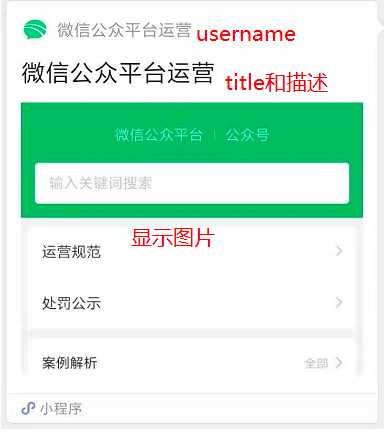
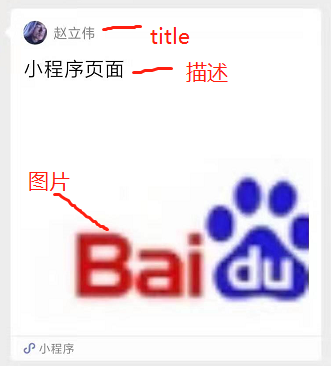
修正错误，基本补全

diff --git a/index.html b/index.html
@@ -22,7 +22,7 @@
         loadSidebar: true,
         subMaxLevel: 3,
         logo: './wxrc.png',
-        coverpage: true,
+        coverpage: false,
         executeScript: true,
         formatUpdated: '{YYYY}-{MM}-{DD} {HH}:{mm}',
         search: {

diff --git a/designer.md b/designer.md
@@ -1,0 +1,57 @@
+# 设计指引
+
+!>WXRC提供能力，设计捕捉场景。Last update：{docsify-updated} 
+
+技术提供能力，设计捕捉场景，运营服务客户，各自面向的生命周期对象不同。
+
+为了服务的连续性，好的产品应该拒绝毫无准则的运营，好的技术拒绝没有价值观的产品，WXRC封装了一种能力，但并不希望其被滥用，虽然并不能从根本上拦住。
+
+## 严禁
+
+由于微信官方的封杀态度，严禁将此能力用于营销场景，包括但不限于，疯狂加好友、广告轰炸、欺诈性营销，以及各种非法行为。我们暂时将机器人能力压缩在一个被动空间里，如需要更多能力，请联系zhao@mandaren.com，描述你的场景
+
+## 方向
+
+理念决定格局，格局决定成长，紧握拳头，什么也抓不住，摊开手掌，可能拥抱更大的世界。
+
+一种特殊的能力，就好像刀枪、知识、信息...，可以用来创造很多美好的事务，也可以用来作恶。Google的“Don’t be evil”，张小龙的“微信价值观”，时至今日，依然是我们应该朝拜的方向。
+
+## 时代与变化
+
+“红利枯竭”是一种状态说法，立足的是过去十余年运营主导的商业逻辑经验。当行业红利、企业自增长一般情况下足以覆盖粗暴运营的相对成本折损，船并不会沉，相反善于大手笔花钱套利的人往往能因为面上的绝对数业绩而掌握话筒。但我们看到，从18年开始，这种商业逻辑正在普遍性崩塌，无数的千万级企业、亿级企业、十亿级、百亿级、乃至千亿级的企业面临生存危机，因为红利、自增长这些大环境buffer一般性的不存在了，而他们的运营逻辑却并没有跟上趋势。
+
+时代变了，很多问题浮上了水面，当年“贸工技”还是“技工贸”路线之争的联想，今天成了业界的笑柄。而坚持做强而不是做大的华为一夜之间成为“抗击美帝”的英雄。
+
+产品经理要多关注趋势和能力，也就是那些能影响环境buffer的因素，这是造物主的视角，他会让你的能力具备可移植性，能够轻易穿透各行各业。
+
+我猜测并一直等待微信的两大开放可能：\
+①企业微信开放被动的机器人能力。\
+②App可以直接调起小程序
+
+你也不妨留意，因为当它们真的到来的时候，整个互联生态的运营逻辑将发生核变。
+
+
+## 案例一：鸿蒙企业管理OS计划
+
+
+用户的需求永不枯竭，因为“美好”是所有人的刚需，总有一类人心目中的美好你想要负责。
+
+
+[鸿蒙](https://mandaren.github.io/harmonyOS/)只是一个产品代号，TA表达了我对“重构企业文化部分底层”的美好愿景。这听起来很玄很“hight-level”，但其实又很好理解，你时常隐隐约约感觉到，很多问题无法解决的关键，都是源于信息墙无法穿透，你的感觉是对的，只不过没有把它归纳出来。
+
+在8月初，有文章透露PC微信解决不支持打开小程序的反人类体验，正在灰度测试。此前一个面向效率工程方向的产品设想就是卡死在这里，规则即将改写，可以判定这是一个产品机会，当然同时它也承载了我对内部企业管理的不满意（或者说更好的追求）。
+
+我们主营的是一个中间件系统，跟上百家客户，有系统级对接，都有项目实施群、生产客服群，这意味着我们的项目经理（特指客户接入项目）、客户经理要维护N多的群，每天在几十个群里来回切换看消息。最主要的事，作为客服部门管理者、项目部门管理者、产品管理者，相关部门管理者、公司管理者，你有办法从数据层面了解真实而完整的一线情况吗？没可能的！
+
+如此一来，客户对接团队，就成了一个黑匣子、信息阻断器，挟客户以令“诸侯”的现象发生了。产品管理就必然\
+——只能选择降级成为项目管理和日常运营管理\
+——要么被架空\
+显然无论是哪一种，长远看都不利于组织分工的平衡和正常运转，产品经理就更惨，将直接沦为写文档的营生。
+
+早在17年，我意识到在上层者根本没法客观评价项目经理的工作，只能每周形式性的统计进度和问题，而更多人有意无意在制造部门之间的信息隔离，我就知道这是个效率工程课题，但一直没有get到一个完整的解决方案：我希望利用小程序的群ID识别能力，可惜工作场景在PC端，而PC微信偏偏不支持打开小程序，成了死锁。
+
+
+直到PC微信的内测新闻，以及机器人能力的落脚，我心目中的“美好”才满足了可行性条件。
+
+这就是harmonyOS的全部故事。\
+才刚刚启动研发项目啦，预计要过两三月才能正式面世公测，那个时候应该进入2020年了，你可以先watch[harmonyOS的git地址](https://github.com/mandaren/harmonyOS)，让我们保持连接。

diff --git a/callback.md b/callback.md
@@ -12,7 +12,7 @@
 
 WXRC客户端和业务系统（服务端）采用http通讯，数据发送为表单POST方式。返回数据JSON字符串。由请求地址不同控制访问不同的接口。报文的输入格式如reqHead、reqBody，输出resHead、resBody。按通知类型不同，所有回调的reqBody都会包含两个通用字段：botcode、type，其余字段不同类型的回调各有不同定义。
 
-业务系统收到回调之后，resBody应响应一串字符{result：'success'}过来，表示收到，否则理论上WXRC应该继续按规则继续发起回调。考虑可能的异常，请注意用户消息类通知做幂等处理，避免打扰到用户。用于用户对响应体验的容忍是5秒以内，所以实际的原则上我们只回调一次，也暂无回调流水号区分，有异常请先群里吼。
+业务系统收到回调之后，resBody应响应一串字符{result：'success'}过来，表示收到，否则理论上WXRC应该继续按规则继续发起回调。考虑可能的异常，请注意用户消息类通知做幂等处理，避免打扰到用户。由于用户对响应体验的容忍是5秒以内，所以实际的原则上我们只回调一次，也暂无回调流水号区分，有异常请先群里吼。
 
 header部分，无论请求头和请求体均无特殊附加处理。
 
@@ -22,7 +22,7 @@ header部分，无论请求头和请求体均无特殊附加处理。
 
 模拟客户端成功启动后会自动获取登录二维码，并在未登录状态下每隔120重置，都会发送二维码url，业务系统需要监听推码事件，并显示到用户前台。
 
-当用户扫码后，微信上确认，微信服务端会进行验证，一部分账号因无法登陆报错，目前还不能很好的获取报错信息，但手机在用户手里，可以即时看到App页面错误展示，所以也无必要，故暂无此回调。我们没有提供退出登录API，也是相似的原因，因为微信App本身已天然提供，但我们需要将此事件通知给业务系统，以便前台正常维护登录状态。
+当用户扫码后，微信上确认，微信服务端会进行验证，一部分账号因无法登陆报错，目前还不能很好的获取报错信息，但手机在用户手里，可以即时看到App页面错误展示，所以也无必要，故暂无此错误场景回调。我们没有提供退出登录API，也是相似的原因，因为微信App本身已天然提供，但我们需要将此事件通知给业务系统，以便前台正常维护登录状态。
 
 已登录状态如业务系统下继续发起登录请求，WXRC并不会返回二维码，但会重新发送一条登录成功通知。
 
@@ -32,7 +32,7 @@ header部分，无论请求头和请求体均无特殊附加处理。
 
 | 字段 | 类型 | 说明 |
 |---|---|---|
-| botcode | string | 机器人编号，跟微信号一一对应，由原业务系统上送时定义，通用字段 |
+| botcode | string | 机器人编号，跟license一一对应，由wxrc分配给原业务系统，通用字段 |
 | type | string | 回调类型，值见标题尾，通用字段 |
 | qrcodeImageUrl | string | 最新的二维码图片下载地址 |
 
@@ -49,7 +49,7 @@ header部分，无论请求头和请求体均无特殊附加处理。
 
 | 字段 | 类型 | 说明 |
 |---|---|---|
-| botcode | string | 机器人编号，跟微信号一一对应，由原业务系统上送时定义，通用字段 |
+| botcode | string | 机器人编号，跟license一一对应，由wxrc分配给原业务系统，通用字段 |
 | type | string | 回调类型，值见标题尾，通用字段 |
 | botStatus | string | logout代表下线事件，login代表登录成功事件，loginerr代表登录失败，比如账号被限制web登录是广泛存在的,off代表机器人实例已注销 |
 
@@ -63,7 +63,7 @@ header部分，无论请求头和请求体均无特殊附加处理。
 
 * 场景说明
 
-目前我们暂只用一种场景，如果监听到at本机器人的消息，提取消息体和所在的群ID、消息发送人、转发给业务系统。我们不会等待业务系统的处理，业务系统的处理需要重新调用用户发送消息机器人接口。
+目前我们暂只用一种场景，如果监听到at本机器人的消息，提取消息体和所在的群ID、消息发送人、转发给业务系统。我们不会同步等待业务系统的处理，业务系统的处理需要重新调用用户发送消息机器人接口。
 
 ## 转发At自己的消息{userMsg}
 

diff --git a/API.md b/API.md
@@ -21,9 +21,9 @@
 | 字段 | 类型（长度） | 必填 | 说明 |
 |---|---|---|---|
 | chid | string | 是 | 请求渠道号，由本系统分配，请咨询项目经理 |
+| botcode | string | 是 | 机器人编号，用于挂载模拟客户端实例线程到对应的作用域，由WXRC分配，与license一一绑定，请咨询项目经理 |
 | txcode | string | 是 | 请求流水号，建议20位，业务系统生成渠道内唯一编号，至少当日唯一 |
 | txtime | string(14) | 是 | yyyymmddhhmmss |
-| botcode | string | 是 | 机器人编号，跟微信号一一对应，用于绑定模拟客户端实例作用域 |
 | sign | string | 是 | 详见鉴权规则 |
 
 * WXRC系统的标准resHead：
@@ -44,11 +44,16 @@
 
 允许用户启动模拟微信客户端，并发起登录，支持2种场景：
 ①未登录状态下发起登录，即首次登录，大约5秒会异步返回二维码。
-②登录状态下发起登录，比如WXRC系统重启后，在和微信的心跳连接没有断开之前，业务系统发起登录，WXRC系统可能会用本地登录信息自动登录到微信端，并不会返回二维码，但会异步通知登录成功事件，所以理论上不是必须要用到状态查询接口。
+②登录状态下发起登录，比如WXRC系统重启后，和微信的心跳连接并没有事实性断开，这个时候业务系统发起登录，WXRC系统可能会用本地登录信息自动登录到微信端（快速连接），并不会返回二维码，但会异步通知登录成功事件，所以理论上不是必须要用到状态查询接口。
 
-我们不考虑手机号密码登录等其他验证方式
+我们不考虑手机号密码登录等其他验证方式。
+注意，由于后端实现机制的问题，目前实测从收到login请求的成功响应到实际微信登录成功约28秒时间，只要没报错，可耐心等待一会。
 
-## 网页扫码登录接口{login}
+
+## 登录接口{login}
+用于启动模拟微信客户端并向微信发起登录事件。
+当前阶段特指mac客户端模拟方式登录。
+
 
 * reqBody：无
 * resBody：
@@ -60,9 +65,11 @@
 
 接口说明：由于存在过长启动和自动登录，用于登录的二维码会改异步通知过来，这里并不会直接返回。
 
-## mac登录接口{macLogin}
+## web登录接口{webLogin}
 
-暂无，以示和普通web登录区别
+以示和普通mac登录区别。
+由于微信限制，绝大部分微信账号没办法使用web方式登录，不具备普适性，所以我们不提供此接口。
+
 
 
 ## 登录状态查询接口{botStatus}
@@ -88,6 +95,9 @@
 * 发送小程序，主要面向关键字回复场景，报表通知也可以采用
 * 发送图片，这个优先级次之。
 
+注意，如果你希望自己的机器人尽快被微信封杀的话，请频繁调用发送接口去打扰用户。
+
+
 ## 群发送文本消息{roomSendText}
 
 * reqBody：
@@ -112,7 +122,7 @@
 
 * reqBody：
 
-本接口需要等license拿到后才能测试
+
 
 * resBody:
 
@@ -125,14 +135,14 @@
 
 * 小程序卡片对象示例：
 
-{  
-    appid：'小程序id，小程序后台获取到',  
-    username:'小程序名称，小程序后台获取到',  
-    description:'小程序描述',  
-    pagepath:'页面路径',  
-    title:'页面标题',  
-    thumbnailUrl:'卡片图片'  
-}
+{appid:"wx3956d1381534bd91",  
+username:"gh_705fcf8f8b44@app",
+
+description:"小程序页面",
+pagepath:"pages/index/index.html",   
+thumbnailurl:"https://www.baidu.com/img/bd_logo1.png",   
+title:"赵立伟"}
+
 
 ![avatar](./image/minApp.png)
 

diff --git a/errcode.md b/errcode.md
@@ -1,25 +1,24 @@
-# start
-!>微信机器人API，仅限内部使用，禁止用于营销场景
+# 响应码
+!>系统定义了四类响应码
 
+此外，因某些异常导致框架崩溃或未正常给出响应，会直接报HTTP错误，不做举例。
 
-# 版本记录
+# 响应码定义
 
-| 版本编号 | 更新内容 | 更新人 | 更新时间 |
-|---|---|---|---|
-| v0.1 | 初始版本 |赵立伟 | 2019年10月1日 |
-
-# 文档说明
-
-
-WXRC系统将微信机器人能力和业务系统做物理隔离，类似支付通道定位，连接业务系统（客户端）和微信服务端（服务端），主要提供如下功能：
-
-请求前置：
-* 对请求来源（chId）和签名（sign）进行合法性判断
-* 对来源报文统一日志记录
-* 对来源报文进行解析路由
-
-业务处理：
-* 对客户端业务请求进行业务处理和响应，向微信服务端下发机器人客户端消息
-* 对微信消息回调进行解析和业务处理，并将有效消息转发回前台业务系统
+| 类型 | 定义 | 说明 | 
+|---|---|---|
+| 成功 | success：“0” | 业务处理成功 |
+| 中间件级别错误（由中间件捕获） | middule_headers_incomplete:'10' | 请求头业务参数不全 |
+|  | middule_headers_err:'11' | 请求头业务参数值不合法 |
+|  | middule_headers_unique:'12' | 请求头业务参数唯一性错误 |
+| 全局级别错误（由框架捕获） | global_router_nun:'20' | API或静态资源不存在 |
+|  | global_router_auth:'21' | API权限不足 |
+|  | global_datebase:'22' | 数据库连接或处理错误 |
+|  | global_other:'23' | 其他没预期到的错误 |
+| API级别错误（由API捕获） | api_body_incomplete:'30' | 业务参数不全 |
+|  | api_body_type:'31' | 业务参数类型错误 |
+|  | api_body_err:'32' | 业务参数值错误 |
+|  | api_body_unique:'33' | 业务参数唯一性错误 |
+|  | api_other:'34' | 其他没预期到的api级别错误 |
 
 

diff --git a/appendix.md b/appendix.md
@@ -1,0 +1,23 @@
+# 附录
+!>一些业务流程说明。Last update：{docsify-updated}
+
+## 启动和请求登录
+
+这里要区分几个概念：
+
+①机器人实例相当于启动模拟客户端——打开App
+
+②启动事件发生的时候，首先会判断本地是否存在同名的memory-card，如果存在，表示之前已经登录过的，会直接用历史信息向微信服务器尝试登录，所以这个时候推送给业务系统的，就是登录成功事件，而不是二维码。但如果memory-card不存在，则先new一个实例，然后调用登录请求，这个时候推送过来的，会是二维码。
+
+![avatar](./image/chat.png)
+
+## 换微信
+
+这里会涉及到对2个概念的理解：
+
+①logout只是注销了在微信的账号登录状态，即注销掉当前使用的wxid，这个时候退回到需要扫码的状态
+
+②stop把本地模拟客户端实例释放了，但微信账号并没有下线，这也是后续能免扫码直接登录的原因。
+
+license和wxid不存在绑定校验，后登录的wxid会将前面登录的顶掉，等于是只验license。目前在mac方式下logout后并不会继续发二维码，如果想换微信，正常的解绑方式是在手机端手动退出登录，接收到退出登录的回调之后变更本地状态，重新请求login。
+

diff --git a/README.md b/README.md
@@ -6,7 +6,7 @@
 
 | 版本编号 | 更新内容 | 更新人 | 更新时间 |
 |---|---|---|---|
-| v0.1 | 初始版本 |赵立伟 | 2019年10月1日 |
+| v0.1 | 初始版本 |赵立伟 | 2019年11月11日 |
 
 # 文档说明
 
@@ -14,7 +14,7 @@
 WXRC系统将微信机器人能力和业务系统做物理隔离，类似支付通道定位，连接业务系统（客户端）和微信服务端（服务端），主要提供如下功能：
 
 请求前置：
-* 对请求来源（chId）和签名（sign）进行合法性判断
+* 对请求来源（chId、botcode）和签名（sign）进行合法性判断
 * 对来源报文统一日志记录
 * 对来源报文进行解析路由
 

diff --git a/_sidebar.md b/_sidebar.md
@@ -3,6 +3,6 @@
 * [关于WXRC系统](readme.md)
 * [接口定义和场景](api.md)
 * [业务回调和场景](callback.md)
-* [全局响应码](errcode.md)
-
-* 产品设计指引
+* [响应代码](errcode.md)
+* [附录](appendix.md)
+* [产品设计指引](designer.md)
